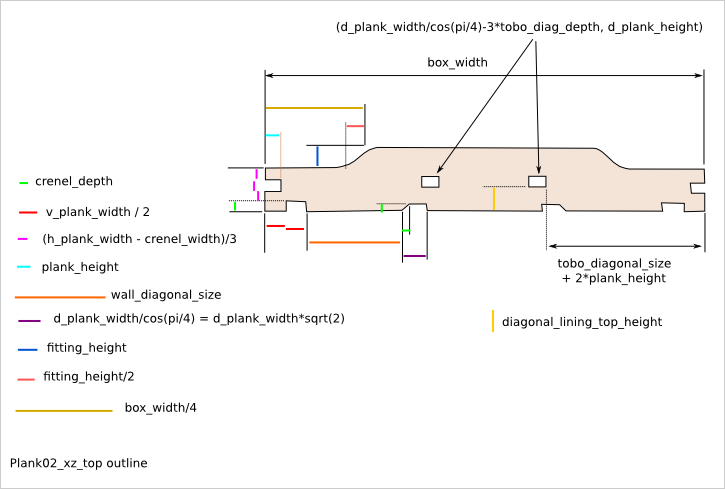
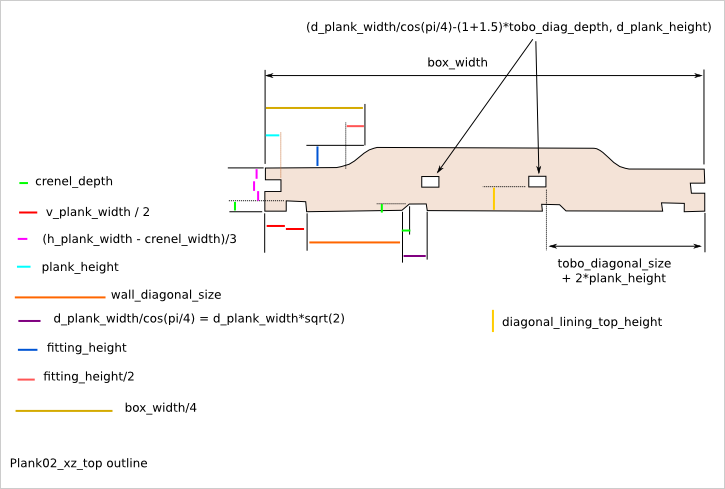
[box_wood_frame] optimize tobo_diag

Changed region(s): [[0.4248, 0.0307, 0.971, 0.092]]

diff --git a/cnc25d/box_wood_frame.py b/cnc25d/box_wood_frame.py
@@ -273,9 +273,9 @@ def box_wood_frame(ai_box_width, ai_box_depth, ai_box_height,
       [1*ai_d_plank_width+0*cai_tobo_diag_depth*math.sqrt(2)/2, 1*ai_d_plank_width+0*cai_tobo_diag_depth*math.sqrt(2)/2, 1*l_soft_external],
       [1*ai_d_plank_width-1*cai_tobo_diag_depth*math.sqrt(2)/2, 1*ai_d_plank_width-1*cai_tobo_diag_depth*math.sqrt(2)/2,-1*ai_reamer_radius],
       [1*ai_d_plank_width-2*cai_tobo_diag_depth*math.sqrt(2)/2, 1*ai_d_plank_width-0*cai_tobo_diag_depth*math.sqrt(2)/2, 1*l_soft_external],
-      [0*ai_d_plank_width+0*cai_tobo_diag_depth*math.sqrt(2)/2, 0*ai_d_plank_width+2*cai_tobo_diag_depth*math.sqrt(2)/2, 1*l_soft_external],
-      [0*ai_d_plank_width+1*cai_tobo_diag_depth*math.sqrt(2)/2, 0*ai_d_plank_width+1*cai_tobo_diag_depth*math.sqrt(2)/2,-1*ai_reamer_radius],
-      [0*ai_d_plank_width+0*cai_tobo_diag_depth*math.sqrt(2)/2, 0*ai_d_plank_width+0*cai_tobo_diag_depth*math.sqrt(2)/2, 1*l_soft_external]]
+      [0*ai_d_plank_width+(1.5-1)*cai_tobo_diag_depth*math.sqrt(2)/2, 0*ai_d_plank_width+(1.5+1)*cai_tobo_diag_depth*math.sqrt(2)/2, 1*l_soft_external],
+      [0*ai_d_plank_width+1.5*cai_tobo_diag_depth*math.sqrt(2)/2,     0*ai_d_plank_width+1.5*cai_tobo_diag_depth*math.sqrt(2)/2,-1*ai_reamer_radius],
+      [0*ai_d_plank_width+0*cai_tobo_diag_depth*math.sqrt(2)/2,       0*ai_d_plank_width+0*cai_tobo_diag_depth*math.sqrt(2)/2, 1*l_soft_external]]
     return(nr)
   #print("dbg412: jonction_plank_tobo_diagonal", jonction_plank_tobo_diagonal)
   # jonction_plank_zx_with_wall_diagonal
@@ -314,7 +314,7 @@ def box_wood_frame(ai_box_width, ai_box_depth, ai_box_height,
   ## hole sub   
   # plank_xz_hole plank_yz_hole
   def plank_xz_yz_hole(nai_box_nb, nai_cutting_extra, nai_box_size):
-    hdx = (ai_d_plank_width*math.sqrt(2)-2*cai_tobo_diag_depth)
+    hdx = (ai_d_plank_width*math.sqrt(2)-(1+1.5)*cai_tobo_diag_depth)
     hdy = ai_d_plank_height
     hpx = ai_tobo_diagonal_size + cai_tobo_diag_depth + 0*ai_plank_height
     #hpy = ai_diagonal_lining_height
